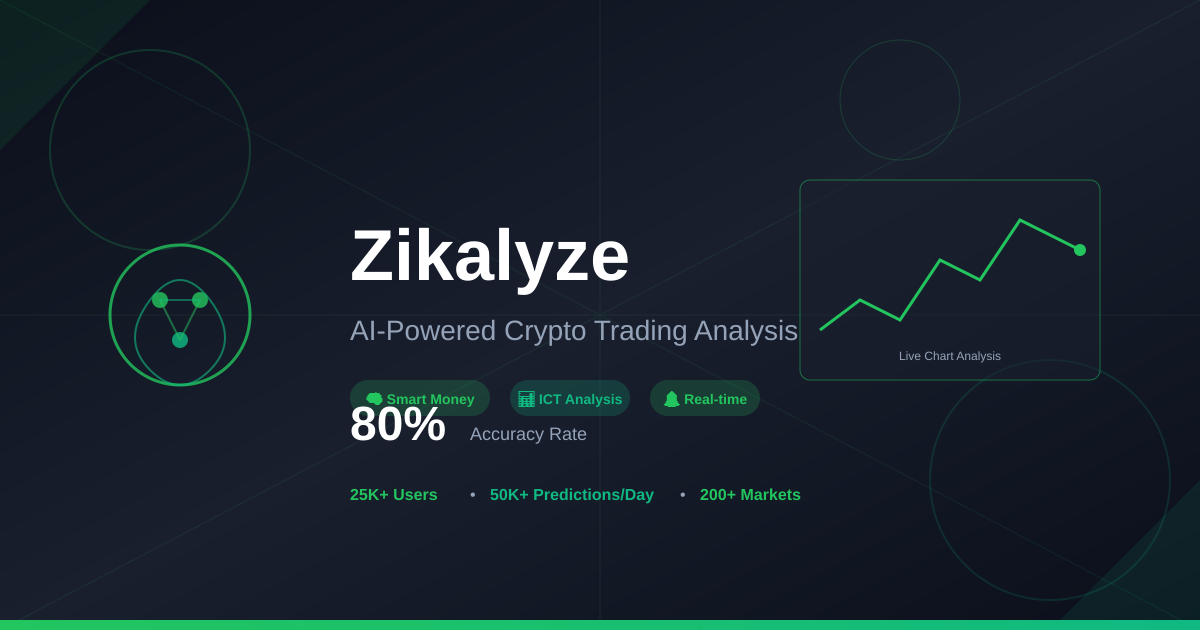
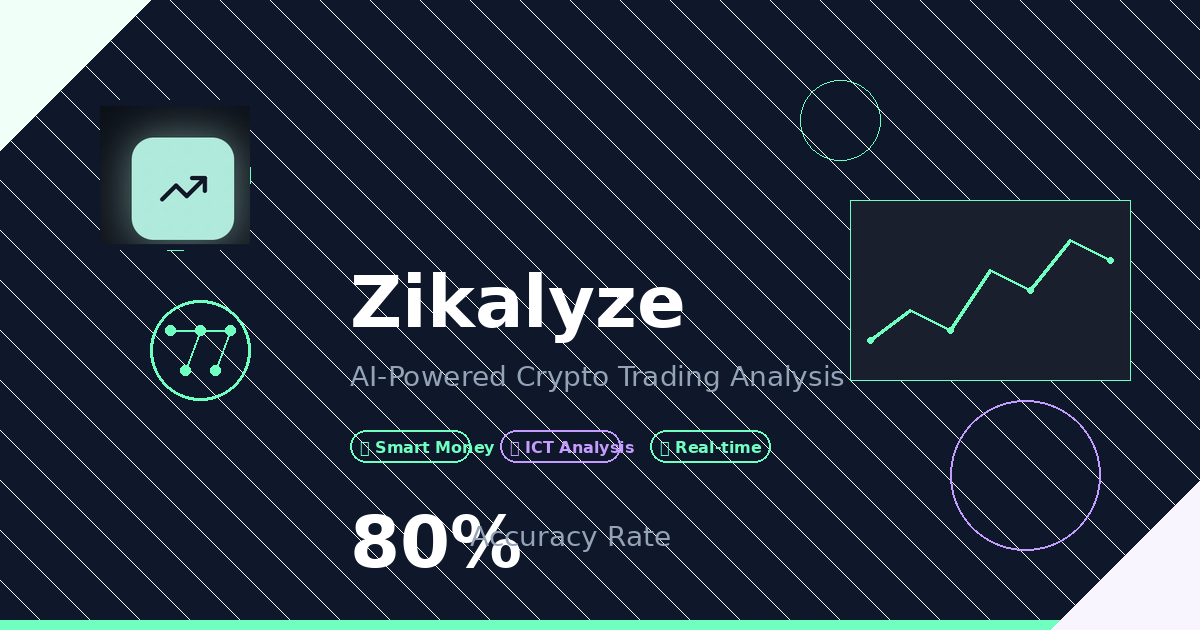
Regenerate Play Store graphics with current brand colors

diff --git a/generate_graphics.py b/generate_graphics.py
@@ -1,0 +1,241 @@
+#!/usr/bin/env python3
+"""
+Generate Zikalyze Play Store Graphics
+Creates feature graphic and OG image with current brand colors
+"""
+
+from PIL import Image, ImageDraw, ImageFont
+import os
+
+# Brand Colors (from src/index.css)
+PRIMARY_COLOR = (112, 255, 193)  # #70ffc1 - Cyan/Green
+BACKGROUND_COLOR = (15, 23, 42)  # #0f172a - Dark Slate
+ACCENT_COLOR = (197, 157, 255)   # #c59dff - Purple
+TEXT_COLOR = (255, 255, 255)     # White
+MUTED_COLOR = (148, 163, 184)    # #94a3b8 - Muted text
+
+def create_feature_graphic():
+    """
+    Create Play Store Feature Graphic (1024x500)
+    """
+    print("Creating Feature Graphic (1024×500)...")
+    
+    # Create image
+    width, height = 1024, 500
+    img = Image.new('RGB', (width, height), BACKGROUND_COLOR)
+    draw = ImageDraw.Draw(img)
+    
+    # Draw gradient background elements
+    # Top left circle
+    draw.ellipse([50, 50, 200, 200], fill=None, outline=PRIMARY_COLOR, width=2)
+    
+    # Bottom right circle
+    draw.ellipse([850, 350, 980, 480], fill=None, outline=ACCENT_COLOR, width=2)
+    
+    # Center decorative elements
+    draw.ellipse([700, 80, 800, 180], fill=None, outline=PRIMARY_COLOR, width=1)
+    
+    # Draw chart-like lines (representing crypto analysis)
+    points = [
+        (100, 350), (150, 300), (200, 320), (250, 250),
+        (300, 270), (350, 200), (400, 230), (450, 150)
+    ]
+    draw.line(points, fill=PRIMARY_COLOR, width=3)
+    
+    # Add circles at data points
+    for x, y in points[::2]:
+        draw.ellipse([x-4, y-4, x+4, y+4], fill=PRIMARY_COLOR)
+    
+    # Draw grid pattern (subtle)
+    for i in range(0, width, 100):
+        draw.line([(i, 0), (i, height)], fill=(255, 255, 255, 10), width=1)
+    for i in range(0, height, 100):
+        draw.line([(0, i), (width, i)], fill=(255, 255, 255, 10), width=1)
+    
+    # Load logo if available
+    logo_path = 'src/assets/zikalyze-logo.png'
+    if os.path.exists(logo_path):
+        try:
+            logo = Image.open(logo_path)
+            # Resize logo to fit nicely
+            logo_size = 120
+            logo = logo.resize((logo_size, logo_size), Image.Resampling.LANCZOS)
+            # Paste logo on left side
+            img.paste(logo, (80, 190), logo if logo.mode == 'RGBA' else None)
+        except Exception as e:
+            print(f"Could not load logo: {e}")
+    
+    # Use default font (will try to load better one if available)
+    try:
+        title_font = ImageFont.truetype("/usr/share/fonts/truetype/dejavu/DejaVuSans-Bold.ttf", 64)
+        subtitle_font = ImageFont.truetype("/usr/share/fonts/truetype/dejavu/DejaVuSans.ttf", 24)
+        feature_font = ImageFont.truetype("/usr/share/fonts/truetype/dejavu/DejaVuSans-Bold.ttf", 14)
+    except:
+        # Fallback to default
+        title_font = ImageFont.load_default()
+        subtitle_font = ImageFont.load_default()
+        feature_font = ImageFont.load_default()
+    
+    # Draw title
+    title = "Zikalyze AI"
+    title_x = 250
+    draw.text((title_x, 180), title, fill=PRIMARY_COLOR, font=title_font)
+    
+    # Draw subtitle
+    subtitle = "AI-Powered Cryptocurrency Analysis"
+    draw.text((title_x, 260), subtitle, fill=MUTED_COLOR, font=subtitle_font)
+    
+    # Draw features
+    features = "Real-Time Signals • Whale Tracking • Multi-Timeframe Analysis"
+    draw.text((title_x, 320), features, fill=TEXT_COLOR, font=feature_font)
+    
+    # Draw accent line at bottom
+    draw.rectangle([0, 490, width, 500], fill=PRIMARY_COLOR)
+    
+    # Save
+    output_path = 'public/feature-graphic.png'
+    img.save(output_path, 'PNG', optimize=True)
+    print(f"✓ Saved Feature Graphic: {output_path}")
+    return img
+
+def create_og_image():
+    """
+    Create OG/Social Media Image (1200x630)
+    """
+    print("Creating OG Image (1200×630)...")
+    
+    # Create image
+    width, height = 1200, 630
+    img = Image.new('RGBA', (width, height), BACKGROUND_COLOR)
+    draw = ImageDraw.Draw(img)
+    
+    # Draw background pattern
+    # Diagonal lines
+    for i in range(-height, width, 50):
+        draw.line([(i, 0), (i+height, height)], fill=(255, 255, 255, 5), width=1)
+    
+    # Circles
+    draw.ellipse([100, 100, 250, 250], fill=None, outline=PRIMARY_COLOR, width=3)
+    draw.ellipse([950, 400, 1100, 550], fill=None, outline=ACCENT_COLOR, width=2)
+    draw.ellipse([800, 80, 880, 160], fill=None, outline=PRIMARY_COLOR, width=1)
+    
+    # Brain/AI icon representation (simplified)
+    brain_x, brain_y = 150, 300
+    draw.ellipse([brain_x, brain_y, brain_x+100, brain_y+100], 
+                 fill=None, outline=PRIMARY_COLOR, width=3)
+    # Neural network nodes
+    nodes = [(brain_x+20, brain_y+30), (brain_x+50, brain_y+30), (brain_x+80, brain_y+30),
+             (brain_x+35, brain_y+70), (brain_x+65, brain_y+70)]
+    for x, y in nodes:
+        draw.ellipse([x-5, y-5, x+5, y+5], fill=PRIMARY_COLOR)
+    # Connections
+    for i in range(len(nodes)-2):
+        draw.line([nodes[i], nodes[i+2]], fill=PRIMARY_COLOR, width=2)
+    
+    # Chart representation
+    chart_x, chart_y = 850, 200
+    chart_width, chart_height = 280, 180
+    draw.rectangle([chart_x, chart_y, chart_x+chart_width, chart_y+chart_height],
+                   fill=(26, 31, 46), outline=PRIMARY_COLOR, width=1)
+    # Chart line
+    chart_points = [
+        (chart_x+20, chart_y+140), (chart_x+60, chart_y+110),
+        (chart_x+100, chart_y+130), (chart_x+140, chart_y+70),
+        (chart_x+180, chart_y+90), (chart_x+220, chart_y+40),
+        (chart_x+260, chart_y+60)
+    ]
+    draw.line(chart_points, fill=PRIMARY_COLOR, width=3)
+    for x, y in chart_points[::2]:
+        draw.ellipse([x-3, y-3, x+3, y+3], fill=PRIMARY_COLOR)
+    
+    # Load logo if available
+    logo_path = 'src/assets/zikalyze-logo.png'
+    if os.path.exists(logo_path):
+        try:
+            logo = Image.open(logo_path)
+            logo_size = 150
+            logo = logo.resize((logo_size, logo_size), Image.Resampling.LANCZOS)
+            # Paste logo
+            img.paste(logo, (100, 100), logo if logo.mode == 'RGBA' else None)
+        except Exception as e:
+            print(f"Could not load logo: {e}")
+    
+    # Fonts
+    try:
+        title_font = ImageFont.truetype("/usr/share/fonts/truetype/dejavu/DejaVuSans-Bold.ttf", 72)
+        subtitle_font = ImageFont.truetype("/usr/share/fonts/truetype/dejavu/DejaVuSans.ttf", 28)
+        stats_font = ImageFont.truetype("/usr/share/fonts/truetype/dejavu/DejaVuSans-Bold.ttf", 16)
+    except:
+        title_font = ImageFont.load_default()
+        subtitle_font = ImageFont.load_default()
+        stats_font = ImageFont.load_default()
+    
+    # Title
+    title = "Zikalyze"
+    draw.text((350, 260), title, fill=TEXT_COLOR, font=title_font)
+    
+    # Subtitle
+    subtitle = "AI-Powered Crypto Trading Analysis"
+    draw.text((350, 360), subtitle, fill=MUTED_COLOR, font=subtitle_font)
+    
+    # Features/Stats
+    features = [
+        ("🧠 Smart Money", PRIMARY_COLOR),
+        ("📊 ICT Analysis", ACCENT_COLOR),
+        ("🔔 Real-time", PRIMARY_COLOR)
+    ]
+    
+    feature_y = 430
+    feature_x = 350
+    for i, (feat, color) in enumerate(features):
+        x_pos = feature_x + (i * 150)
+        # Background pill
+        text_width = 120
+        draw.rounded_rectangle([x_pos, feature_y, x_pos+text_width, feature_y+32],
+                               radius=16, fill=None, outline=color, width=2)
+        draw.text((x_pos+10, feature_y+8), feat, fill=color, font=stats_font)
+    
+    # Accuracy badge
+    draw.text((350, 500), "80%", fill=TEXT_COLOR, font=title_font)
+    draw.text((470, 520), "Accuracy Rate", fill=MUTED_COLOR, font=subtitle_font)
+    
+    # Bottom gradient line
+    draw.rectangle([0, 620, width, 630], fill=PRIMARY_COLOR)
+    
+    # Corner accents
+    points_tl = [(0, 0), (150, 0), (0, 150)]
+    draw.polygon(points_tl, fill=(PRIMARY_COLOR[0], PRIMARY_COLOR[1], PRIMARY_COLOR[2], 25))
+    
+    points_br = [(width, height), (width, height-150), (width-150, height)]
+    draw.polygon(points_br, fill=(ACCENT_COLOR[0], ACCENT_COLOR[1], ACCENT_COLOR[2], 25))
+    
+    # Save
+    output_path = 'public/og-image.png'
+    img.save(output_path, 'PNG', optimize=True)
+    print(f"✓ Saved OG Image: {output_path}")
+    return img
+
+def main():
+    print("="*60)
+    print("ZIKALYZE PLAY STORE GRAPHICS GENERATOR")
+    print("="*60)
+    print(f"\nBrand Colors:")
+    print(f"  Primary: #{PRIMARY_COLOR[0]:02x}{PRIMARY_COLOR[1]:02x}{PRIMARY_COLOR[2]:02x}")
+    print(f"  Background: #{BACKGROUND_COLOR[0]:02x}{BACKGROUND_COLOR[1]:02x}{BACKGROUND_COLOR[2]:02x}")
+    print(f"  Accent: #{ACCENT_COLOR[0]:02x}{ACCENT_COLOR[1]:02x}{ACCENT_COLOR[2]:02x}")
+    print()
+    
+    # Generate graphics
+    feature = create_feature_graphic()
+    og = create_og_image()
+    
+    print("\n" + "="*60)
+    print("GRAPHICS GENERATION COMPLETE!")
+    print("="*60)
+    print("\nFiles created:")
+    print("  ✓ public/feature-graphic.png (1024×500)")
+    print("  ✓ public/og-image.png (1200×630)")
+    print("\nReady for Play Store upload!")
+
+if __name__ == '__main__':
+    main()
